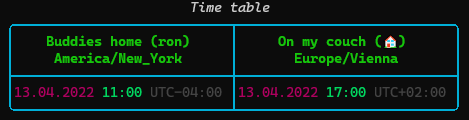
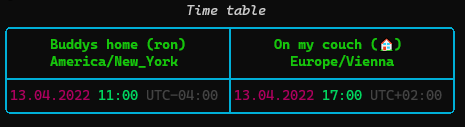
chore(doc): minor fixes

diff --git a/README.md b/README.md
@@ -28,19 +28,19 @@
 - **Fast:** it's fast! 🚀
 - **Easy:** quick to install – start using it in minutes.
 - **Customizable:** configure every aspect to your needs.
-
+- **Colorful:** beautiful colors and Emoji 😎 support.
 
 ## Installation
 
 You can install **when-cli** from [PyPI](https://pypi.org/project/when-cli/) with `pipx`):
 
 ```bash
-pipx install when-cli
+$ pipx install when-cli
 ```
 
 or install it with `pip`:
 ```bash
-python3 -m pip install when-cli
+$ python3 -m pip install when-cli
 ```
 
 You can also download and use the pre-build binary from the latest [Release](https://github.com/chassing/when-cli/releases).
@@ -49,7 +49,7 @@ You can also download and use the pre-build binary from the latest [Release](htt
 ## Usage
 
 ```bash
-when-cli "7. May 06:00 to May 7th 12:00 in PMI" -l America/Los_Angeles -l klu -l PMI
+$ when-cli "7. May 06:00 to May 7th 12:00 in PMI" -l America/Los_Angeles -l klu -l PMI
                                          Time table
 ╭───────────────────────────┬───────────────────────────┬───────────────────────────────────╮
 │                           │ Klagenfurt, Austria (klu) │Palma De Mallorca Airport, ES (PMI)│

diff --git a/USAGE.md b/USAGE.md
@@ -170,7 +170,7 @@ It's a JSON list of dictionaries in this format:
 
 example:
 ```
-$ export WHEN_CONFIG_LOCATIONS='[{ "key": "🏠", "description": "On my couch", "tz": "Europe/Vienna" },{ "key": "ron", "description": "Buddies home", "tz": "America/New_York" }]'
+$ export WHEN_CONFIG_LOCATIONS='[{ "key": "🏠", "description": "On my couch", "tz": "Europe/Vienna" },{ "key": "ron", "description": "Buddy's home", "tz": "America/New_York" }]'
 $ when-cli '17:00'
 ```
 <img src="https://raw.githubusercontent.com/chassing/when-cli/master/media/usage-example4.png" width="50%" />
